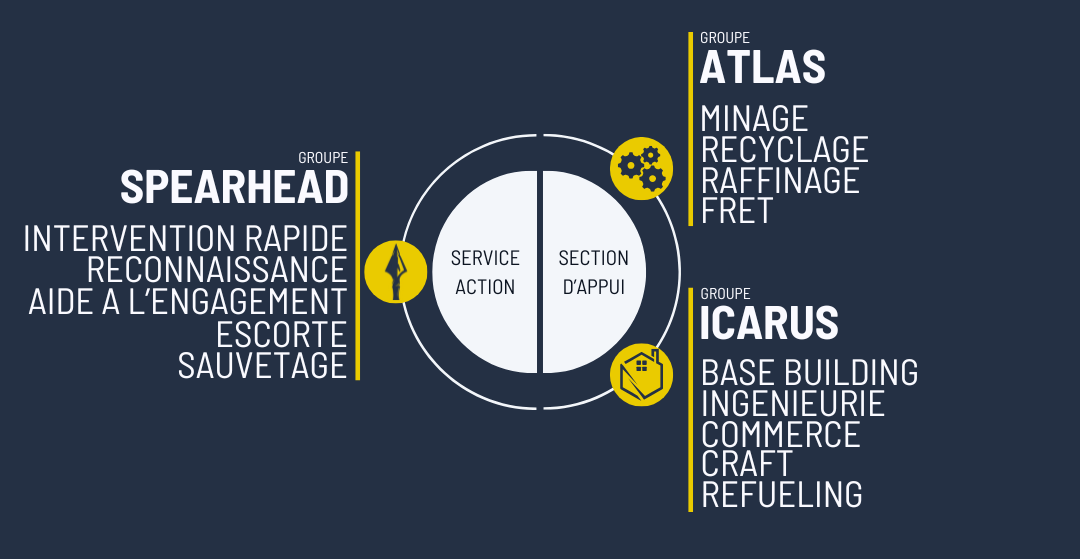
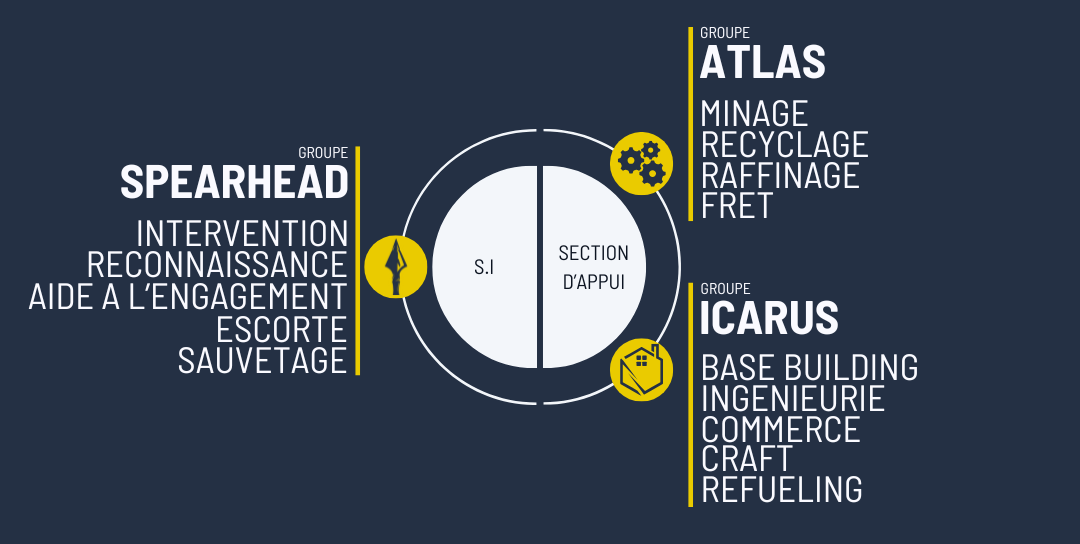
update

diff --git a/src/Components/Branches.jsx b/src/Components/Branches.jsx
@@ -44,7 +44,7 @@ export const Branches = () => {
       <AboutCard>
         <H6 style={{ textAlign: 'justify' }}>
           Notre organisation se structure en deux sections complémentaires : 
-          le service action, dédié aux interventions, et la section d’appui, 
+          le section d'interventions (S.I), dédiée aux opérations, et la section d’appui, 
           qui garantit notre autonomie. Chacune regroupe des groupe spécialisées, 
           organisées par boucles de gameplay. <br /><br />
         </H6>
